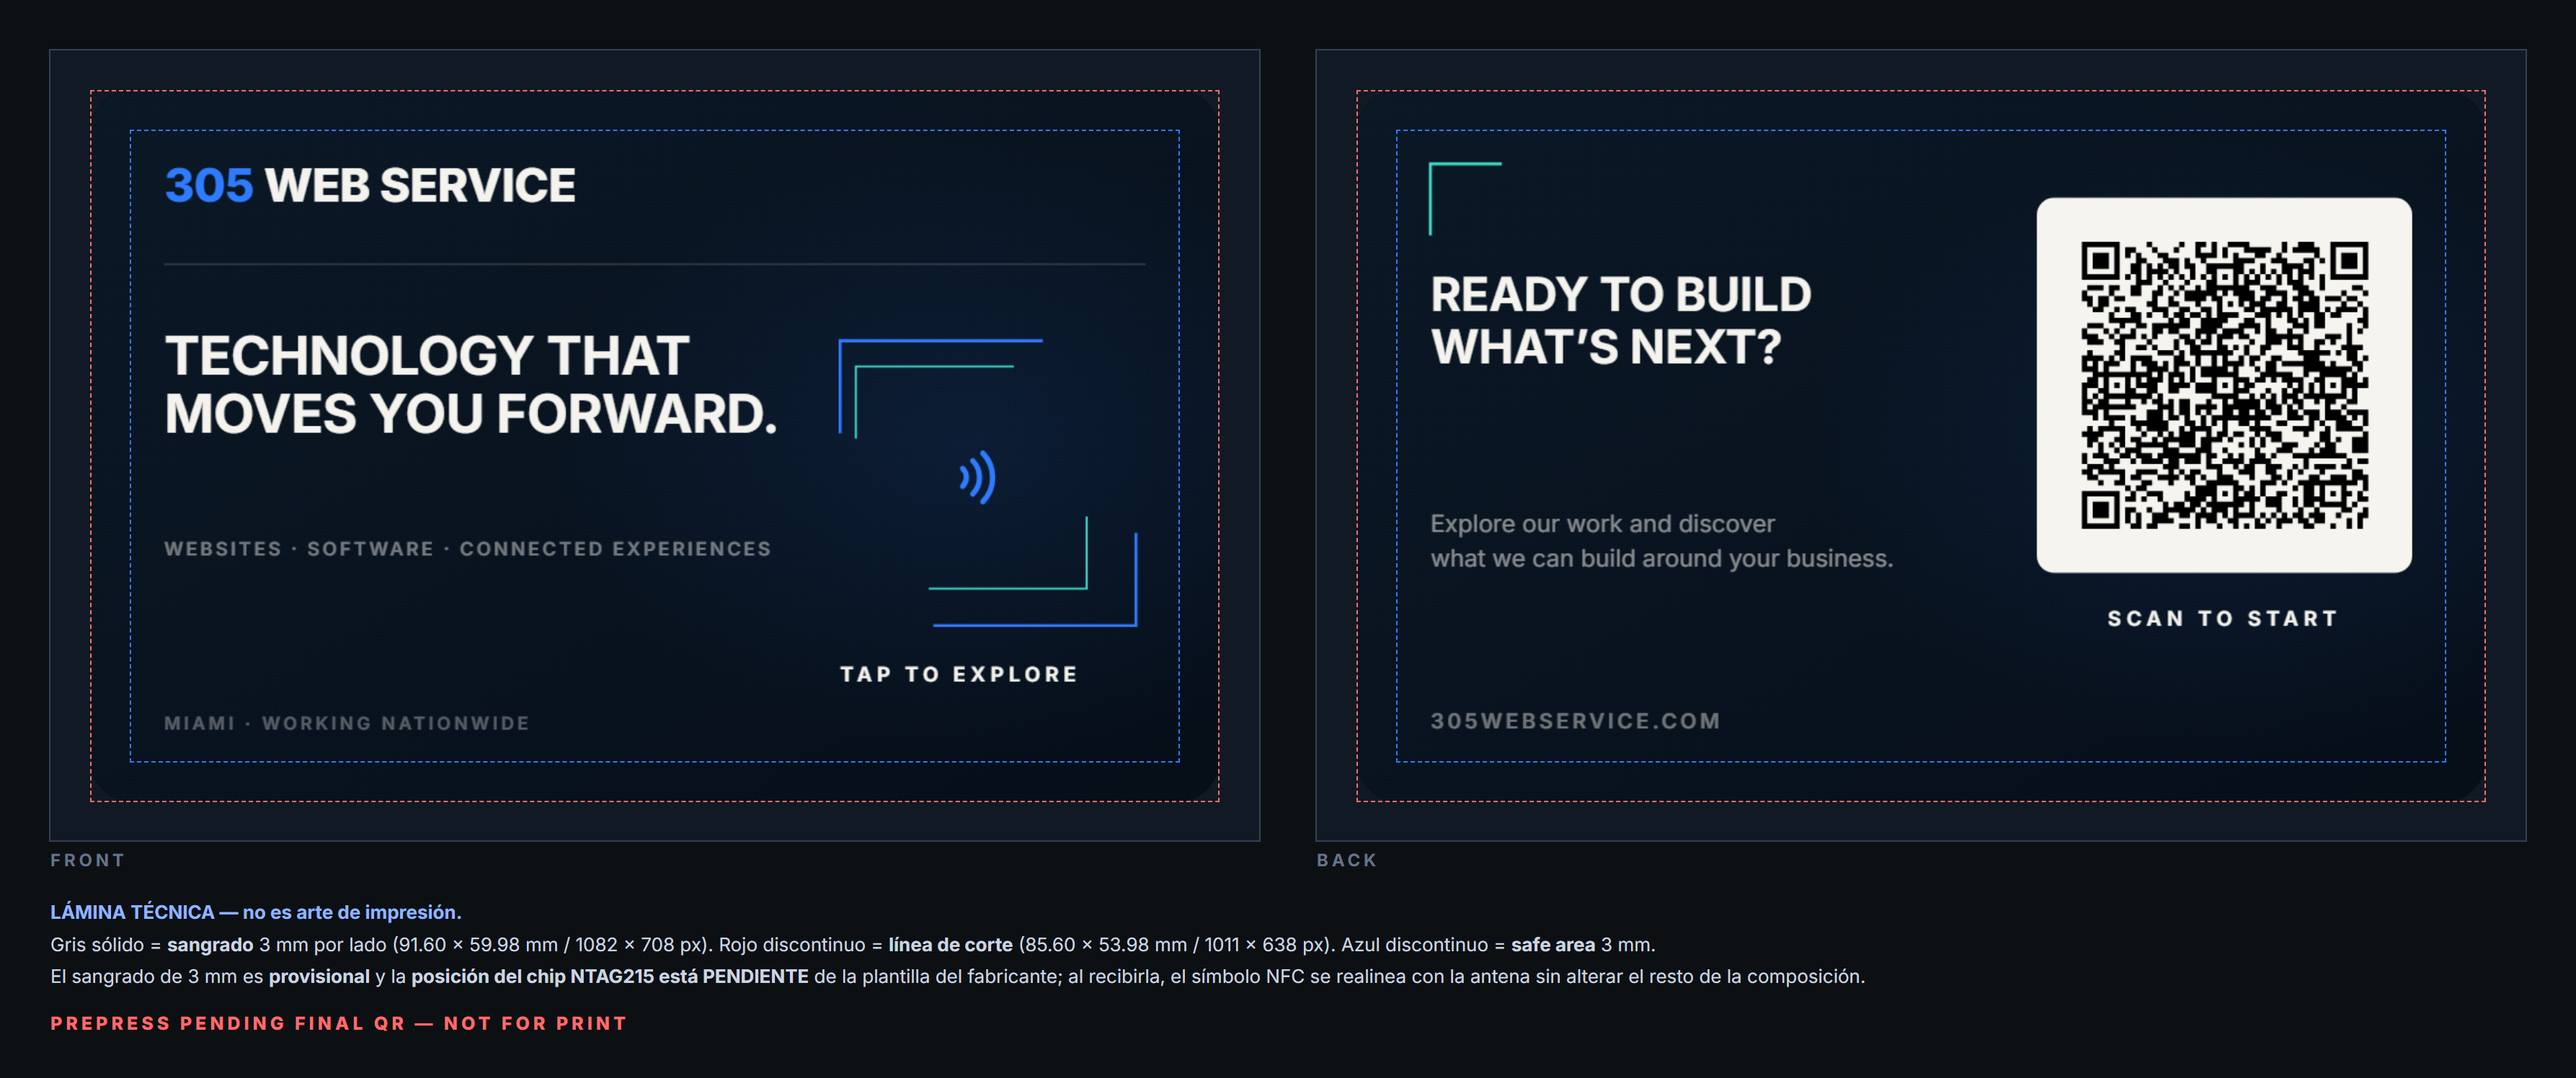
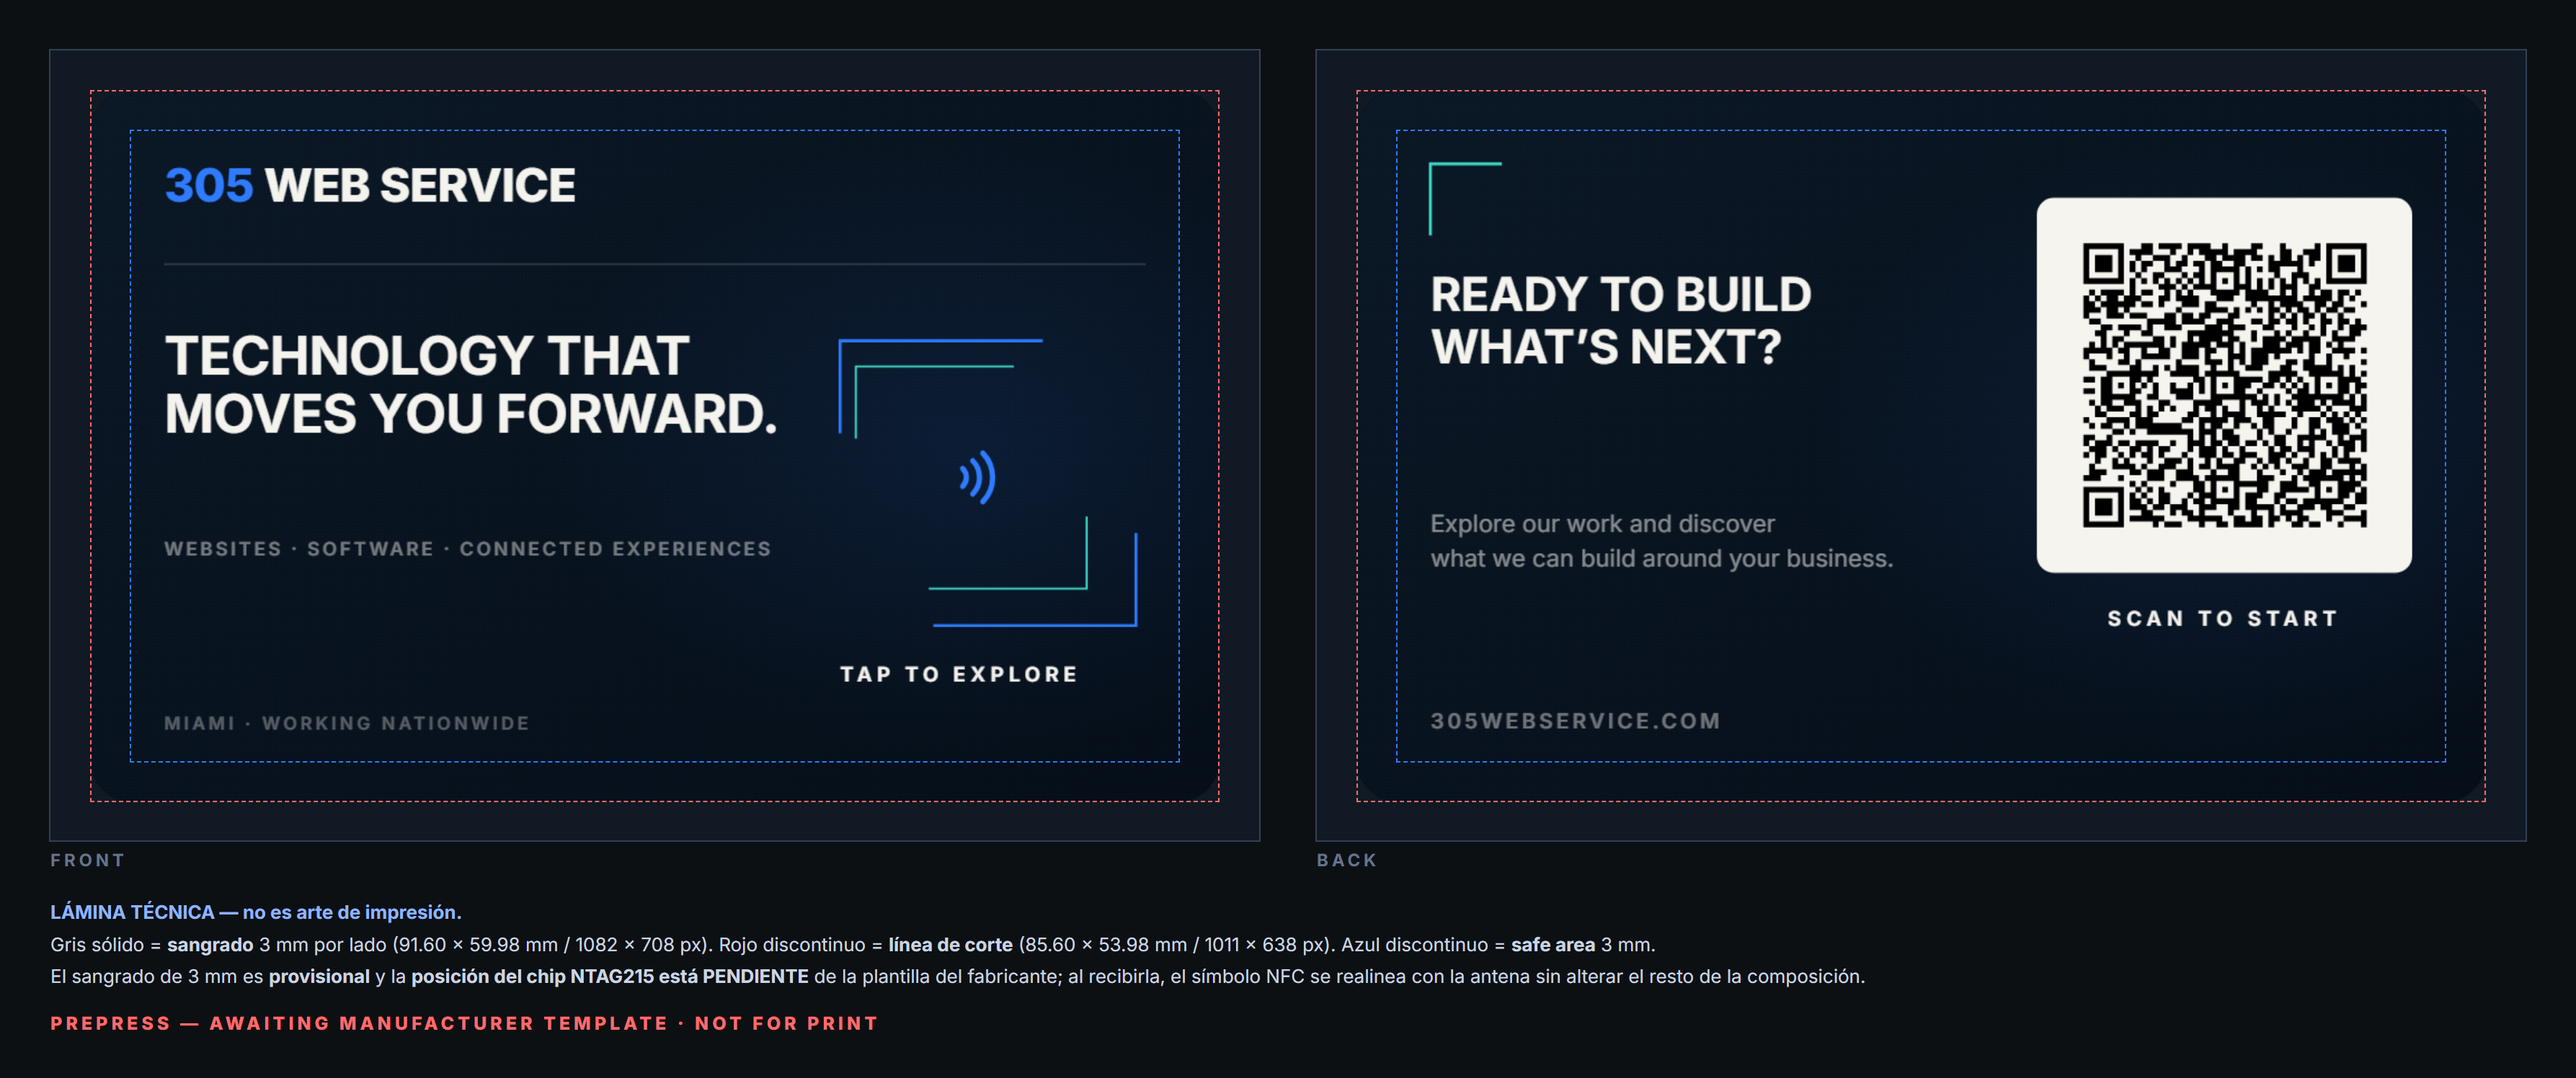
Tarjeta 305 PORTAL: QR definitivo, ya no placeholder
/c/305 responde en produccion tras mergear el PR #1, asi que el QR pasa a
llevar la URL canonica definitiva:

  https://www.305webservice.com/c/305?utm_source=qr&utm_medium=physical-card&utm_campaign=305-portal

Verificado de extremo a extremo: se decodifico el QR DESDE el PNG exportado,
se llamo a esa URL y devolvio 302 -> 200 en el dominio de produccion, con
utm_source=qr&utm_medium=physical-card&utm_campaign=305-portal intactos.

Estado del arte: PREPRESS READY - QR FINAL.
Produccion sigue RETENIDA: faltan la plantilla del fabricante y la prueba
NFC en iPhone/Android.

Aviso registrado: el QR decodifica con OpenCV a partir de 2x de escala, no a
1011x638 nativos. Un telefono capta muchos mas pixeles a corta distancia, pero
debe confirmarse escaneando el proof impreso.

Changed region(s): [[0.8075, 0.2151, 0.9317, 0.4916], [0.0621, 0.9218, 0.3416, 0.9526]]

diff --git a/brand/system/build_305_portal.py b/brand/system/build_305_portal.py
@@ -41,8 +41,9 @@ RADIUS_MM, QR_MM = 3.18, 25.0                                # QR ≥ 22 mm exig
 
 FINAL_QR_URL = ("https://www.305webservice.com/c/305"
                 "?utm_source=qr&utm_medium=physical-card&utm_campaign=305-portal")
-# /c/305 responde 404 → placeholder marcado. Nunca localhost, nunca la home genérica.
-QR_URL = FINAL_QR_URL + "&proof=PREPRESS-PLACEHOLDER"
+# /c/305 verificado en producción (302 → /card/305 conservando las UTMs del QR).
+# Se acabó el placeholder: el QR lleva la URL DEFINITIVA.
+QR_URL = FINAL_QR_URL
 NFC_URL = ("https://www.305webservice.com/c/305"
            "?utm_source=nfc&utm_medium=physical-card&utm_campaign=305-portal")
 
@@ -209,7 +210,7 @@ body{{font-family:"Inter",Arial,sans-serif;background:#0d1013;width:{W*2+46+112}
  <div style="font-size:17px;font-weight:800;letter-spacing:0.18em;text-transform:uppercase;color:#8fb4ff">
    305 Portal &#183; CR80 85.60 &#215; 53.98 &#215; 0.76 mm &#183; NTAG215</div>
  <div style="font-size:16px;font-weight:800;letter-spacing:0.2em;text-transform:uppercase;color:#ff6b6b">
-   Prepress pending final QR &#8212; not for print</div>
+   Prepress &#8212; awaiting manufacturer template &#183; not for print</div>
 </div></div></body></html>"""
 
 
@@ -241,7 +242,7 @@ body{{font-family:"Inter",Arial,sans-serif;width:{LW}px;height:{LH}px;background
     (sin &#8220;ajustar a p&#225;gina&#8221;).<br>
     Verificar con una tarjeta NTAG215 real encima. Marcas grises = l&#237;nea de corte.</div>
   <div style="margin-top:{3*MM}px;font-size:{3.0*MM}px;font-weight:800;letter-spacing:0.14em;
-       text-transform:uppercase;color:#dc2626">Prepress pending final QR &#8212; not for print</div>
+       text-transform:uppercase;color:#dc2626">Prepress &#8212; awaiting manufacturer template &#183; not for print</div>
 </div>
 {block(front_png, "Front", 62*MM)}
 {block(back_png, "Back", 62*MM + H + 22*MM)}
@@ -279,7 +280,7 @@ body{{font-family:"Inter",Arial,sans-serif;background:#0d1013;width:{bw*2+80+140
   sin alterar el resto de la composici&#243;n.
 </div>
 <div style="margin-top:28px;font-size:25px;font-weight:800;letter-spacing:0.2em;
-     text-transform:uppercase;color:#ff6b6b">Prepress pending final QR &#8212; not for print</div>
+     text-transform:uppercase;color:#ff6b6b">Prepress &#8212; awaiting manufacturer template &#183; not for print</div>
 </div></body></html>"""
 
 
@@ -340,9 +341,10 @@ def main():
             qa[side]["no_collision"] = widest >= 24
 
     rep = {
-        "status": "PREPRESS PENDING FINAL QR",
-        "production_exports": "HELD — se emiten solo tras confirmar URL final y plantilla del fabricante",
-        "blocker": "https://www.305webservice.com/c/305 responde 404; el QR embebido es placeholder",
+        "status": "PREPRESS READY — QR FINAL",
+        "production_exports": "HELD — URL final confirmada; faltan plantilla del fabricante y prueba NFC en dispositivo",
+        "blocker": "pendiente: plantilla del fabricante y prueba NFC en iPhone/Android",
+        "canonical_url_live": True,
         "copy": {
             "front": ["305 WEB SERVICE", "TECHNOLOGY THAT MOVES YOU FORWARD.",
                       "WEBSITES · SOFTWARE · CONNECTED EXPERIENCES", "TAP TO EXPLORE",
@@ -363,7 +365,7 @@ def main():
         "routes": {"front": 1, "back": 1,
                    "note": "una acción por cara: NFC delante, QR detrás"},
         "qr": {"decoded_from_final_file": d == QR_URL, "decoded": d,
-               "placeholder_url": QR_URL, "final_url_when_live": FINAL_QR_URL,
+               "is_placeholder": False, "final_url": FINAL_QR_URL,
                "ecc": "Q", "size_mm": QR_MM, "min_required_mm": 22.0,
                "quiet_zone_modules": 4, "logo_inside": False, "localhost": False,
                "points_to_canonical_card_route": True},

diff --git a/brand/out/305-portal/PORTAL-STATUS-AND-CHECKLIST.md b/brand/out/305-portal/PORTAL-STATUS-AND-CHECKLIST.md
@@ -6,16 +6,24 @@
 
 | | |
 |---|---|
-| Arte | `PREPRESS PENDING FINAL QR` |
-| Exportaciones de producción | **RETENIDAS** — se emiten solo tras confirmar URL final **y** plantilla del fabricante |
+| Arte | `PREPRESS READY — QR FINAL` |
+| URL canónica | **EN VIVO** |
+| Exportaciones de producción | **RETENIDAS** — falta plantilla del fabricante y prueba NFC en dispositivo |
 | NFC | no programado, no bloqueado |
 
-Verificado el 29 jul 2026: `https://www.305webservice.com/c/305` → **404**
-(y `/card/305` → 404). El QR embebido es un **placeholder marcado**
-(`…&proof=PREPRESS-PLACEHOLDER`). **No imprimir.**
+PR #1 mergeado el 29 jul 2026. `https://www.305webservice.com/c/305` responde
+**302 → `/card/305`** conservando `utm_source=qr&utm_medium=physical-card&utm_campaign=305-portal`.
+Se acabó el placeholder: **el QR del arte lleva la URL definitiva.**
 
-Los paquetes `direct-print/` y `vendor-cmyk/` generados antes de este refinamiento
-**se eliminaron**: contenían la copy anterior y podían imprimirse por error.
+Verificado de extremo a extremo: se decodificó el QR **desde el PNG exportado**, se llamó
+a esa URL y devolvió 302 → 200 en el dominio de producción, con la atribución del QR intacta.
+
+⚠ El QR decodifica con OpenCV a partir de 2× de escala, no a 1011×638 nativos. Un teléfono
+capta muchos más píxeles que eso a corta distancia, así que no es un problema esperado —
+pero **hay que confirmarlo escaneando el proof impreso**.
+
+Los paquetes `direct-print/` y `vendor-cmyk/` anteriores se eliminaron: tenían copy vieja
+y QR placeholder.
 
 ---
 

diff --git a/brand/out/305-portal/QA-REPORT-COPY-REVISION.md b/brand/out/305-portal/QA-REPORT-COPY-REVISION.md
@@ -109,18 +109,21 @@ juicio mío, no una medición**, y la legibilidad física solo la confirma el pa
 
 ---
 
-## Bloqueo de producción — sin cambios
+## Bloqueo de producción — actualizado
 
-`https://www.305webservice.com/c/305` → **404** (verificado 29 jul 2026).
+`https://www.305webservice.com/c/305` → **302, en vivo** (verificado 29 jul 2026, tras
+mergear el PR #1). El QR ya no es placeholder.
 
-**No se generan** archivos de impresión directa, CMYK de imprenta, ni NFC grabado o
-bloqueado hasta que se cumplan **las cinco** condiciones:
+Condiciones para emitir producción:
 
-1. La URL canónica HTTPS de la tarjeta esté en vivo.
-2. El QR se genere desde esa URL final.
-3. El QR se decodifique desde el arte exportado.
-4. El destino NFC se pruebe en iPhone y Android — **PENDING USER DEVICE TEST**.
-5. La plantilla del fabricante esté confirmada.
+1. ~~URL canónica HTTPS en vivo~~ — **cumplida**
+2. ~~QR generado desde esa URL final~~ — **cumplida**
+3. ~~QR decodificado desde el arte exportado~~ — **cumplida** (302 → 200, atribución intacta)
+4. Destino NFC probado en iPhone y Android — **PENDING USER DEVICE TEST**
+5. Plantilla del fabricante confirmada — **pendiente**
+
+Siguen sin generarse archivos de impresión directa, CMYK de imprenta, ni NFC grabado
+o bloqueado.
 
 ---
 
